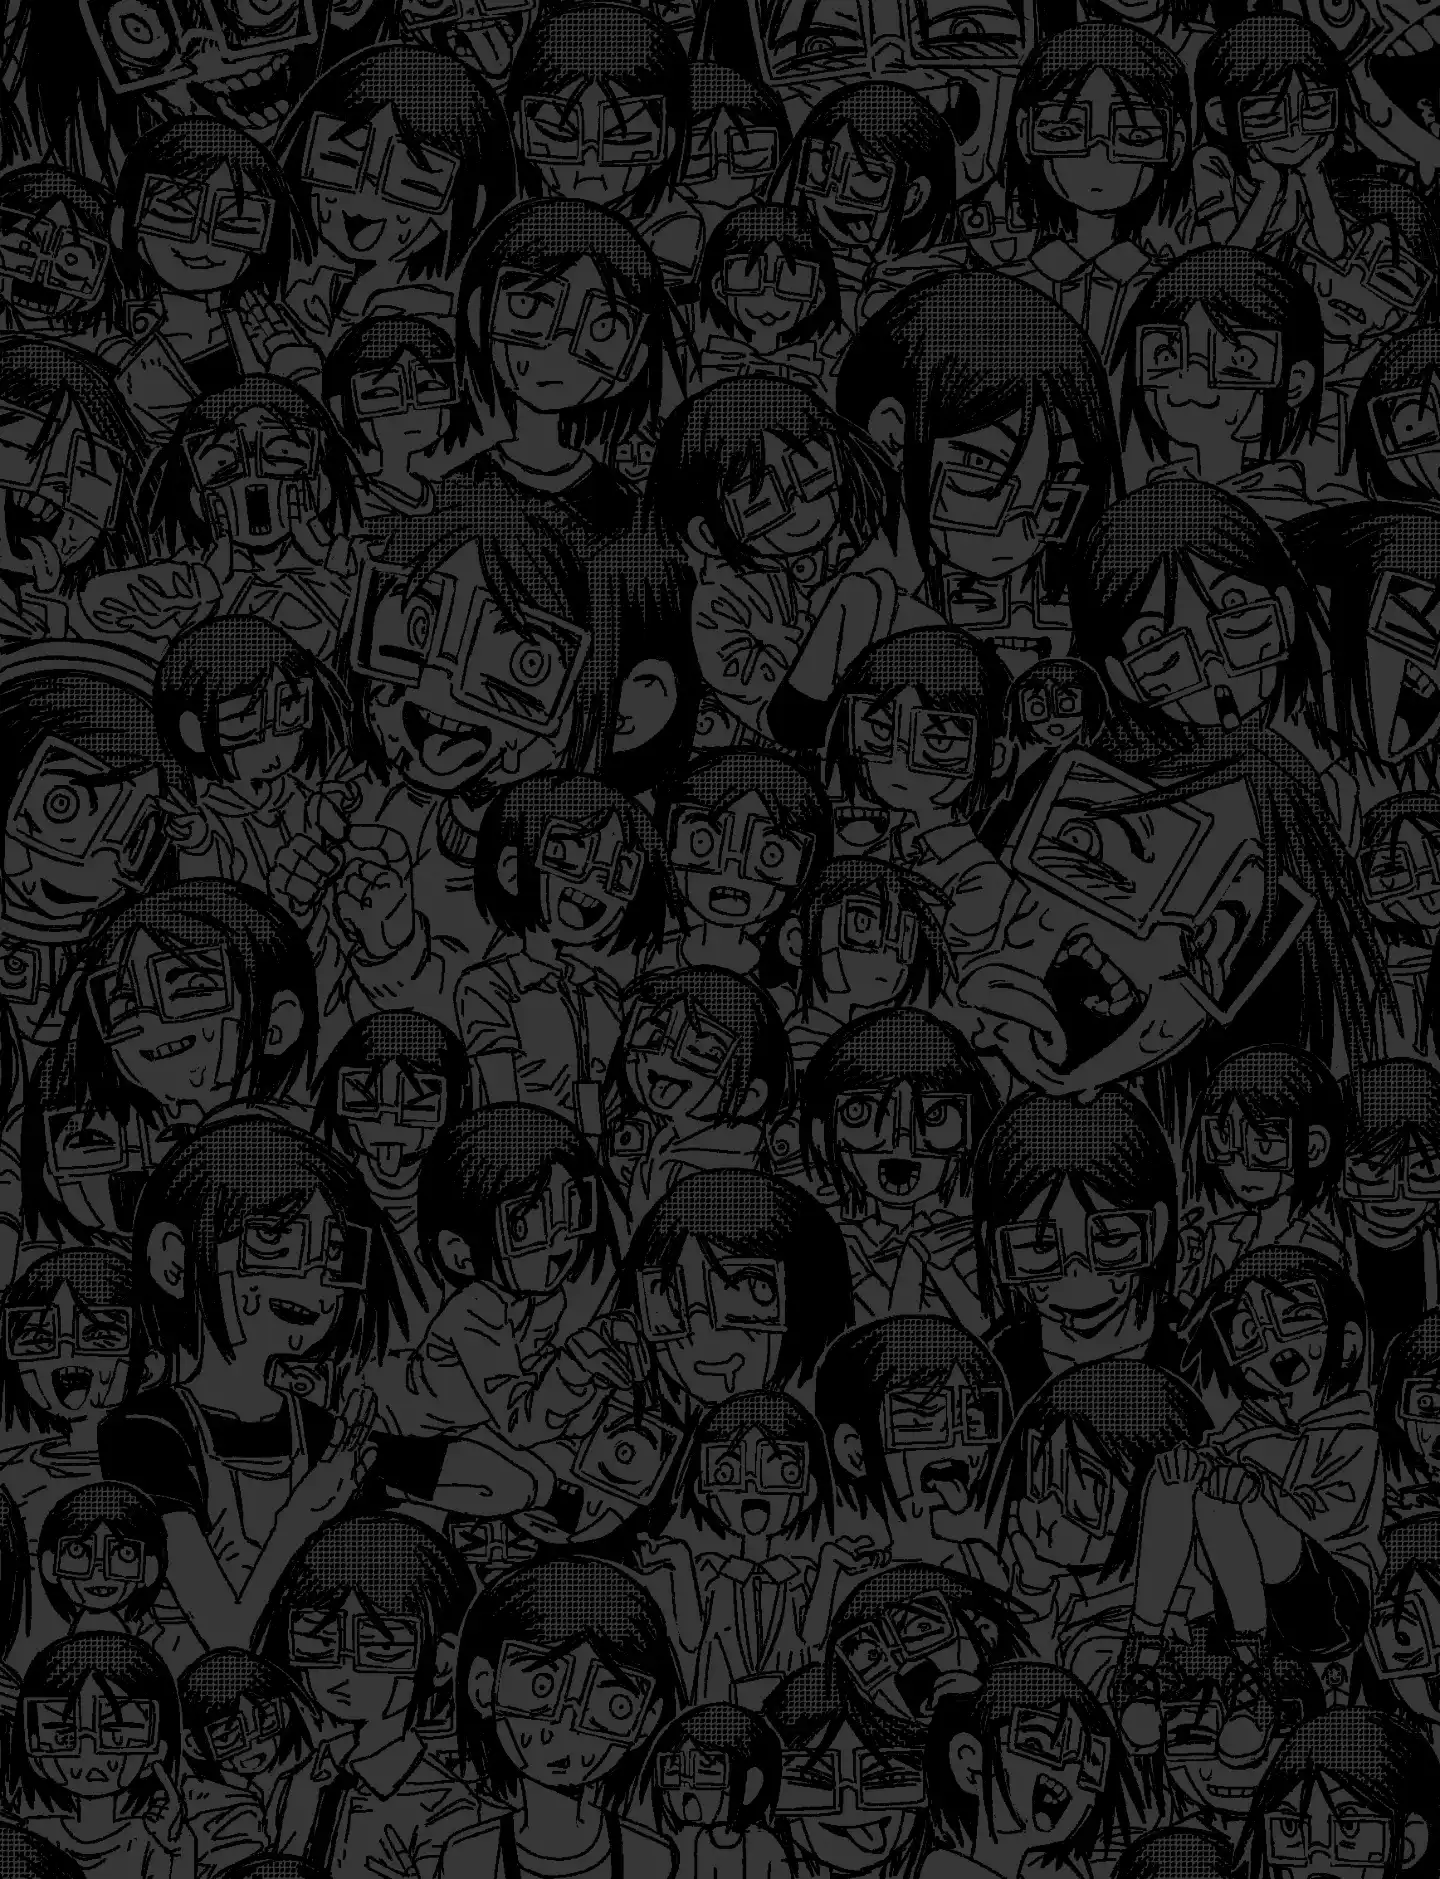
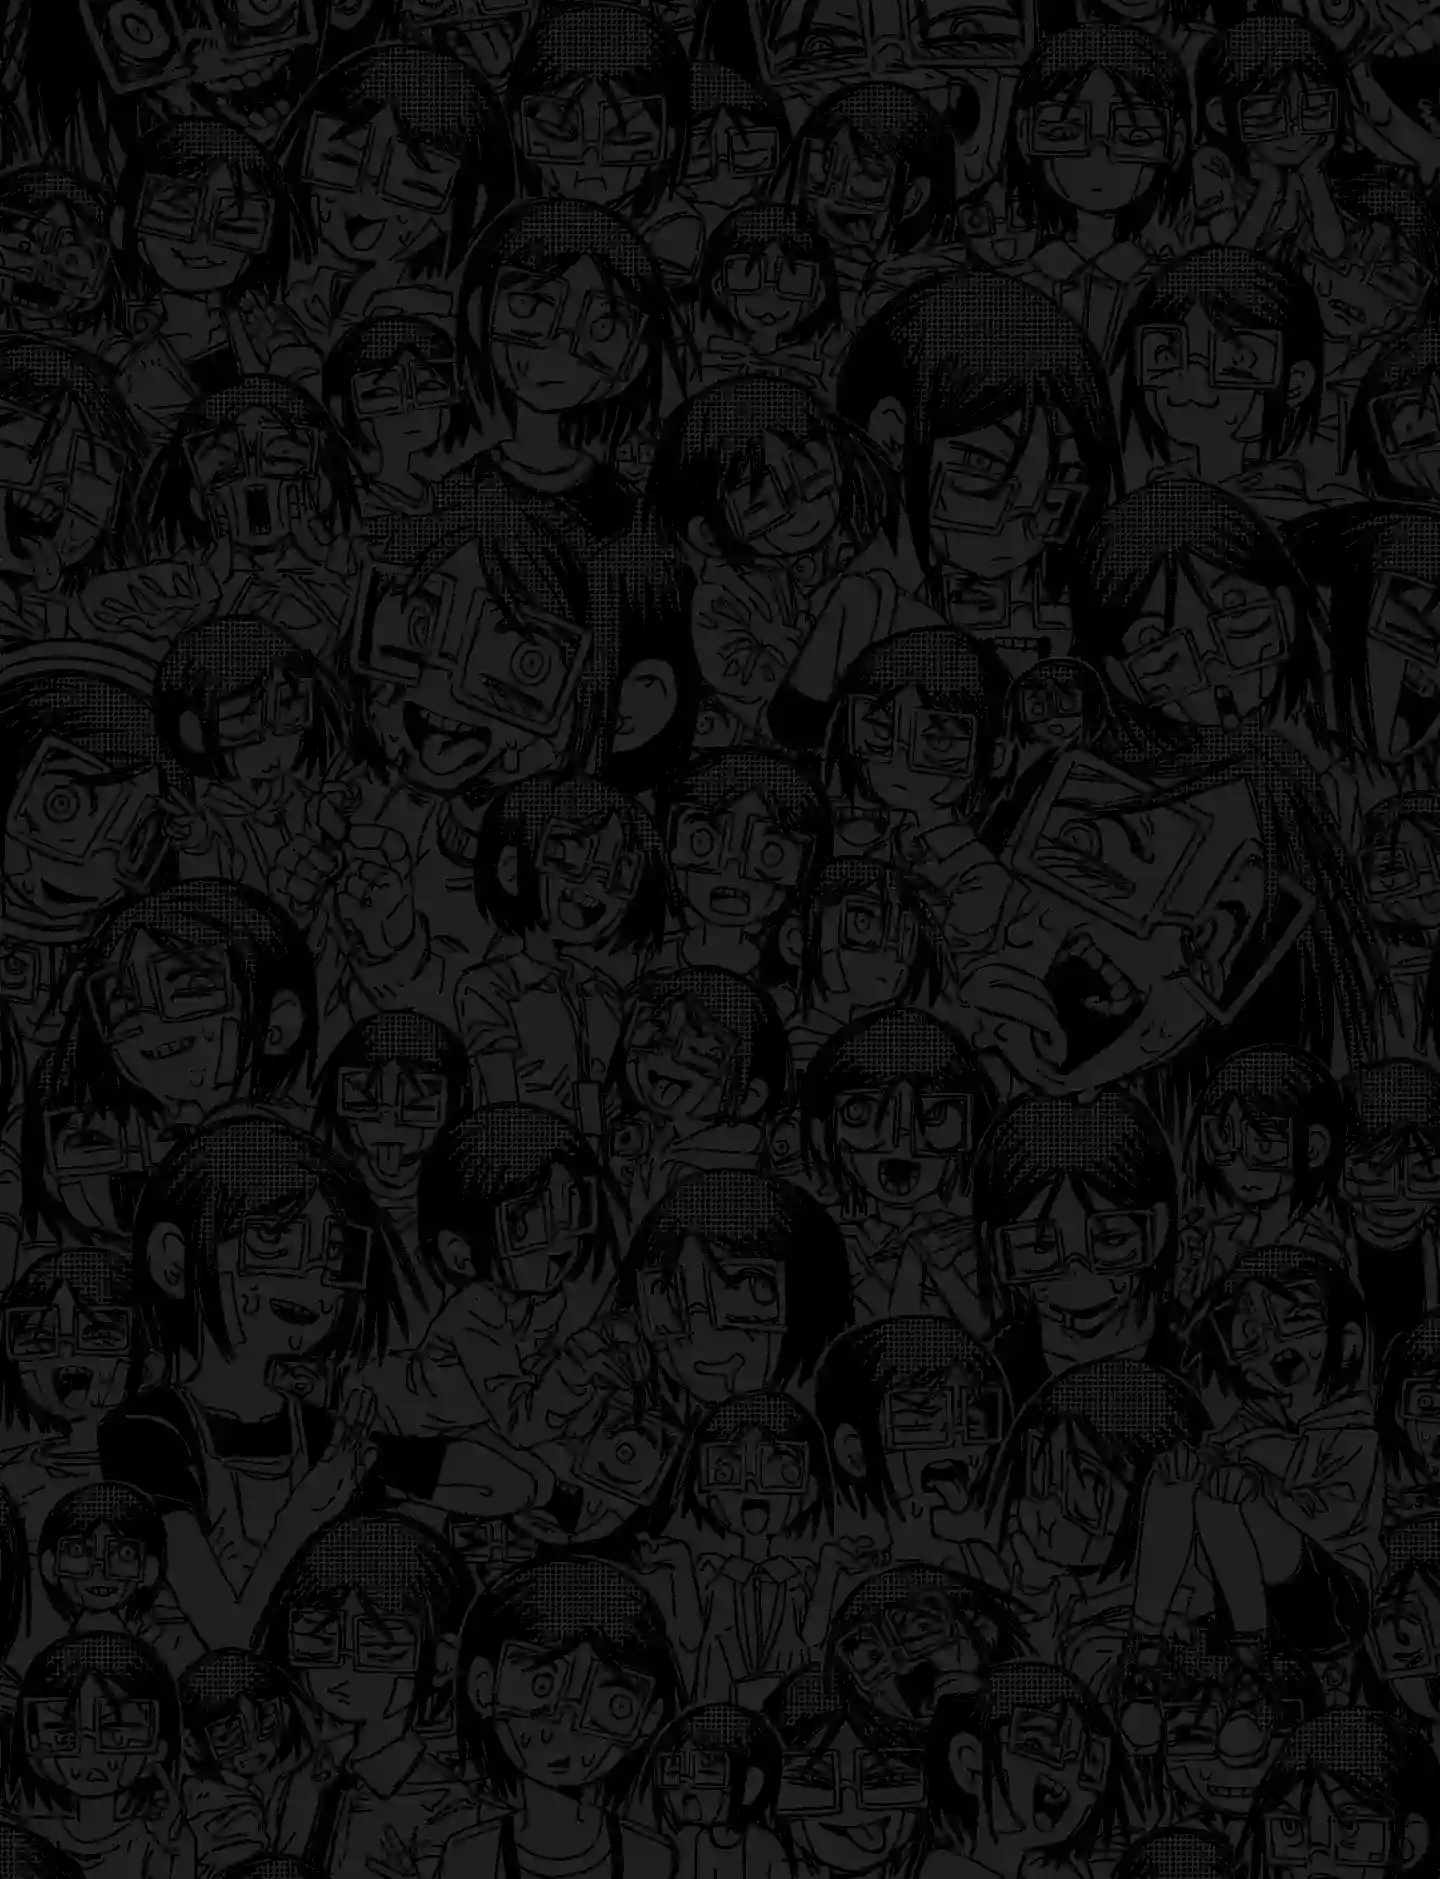
Move background images to media directory and update theme configuration
Key features implemented:
- Move bg-light.webp and bg-dark.webp to /media/ directory
- Update js/ui.js to reference new background image paths in /media/
- Compress background images to approximately 100kB total file size
- Maintain visual quality while optimizing image assets
- Update CSS background properties to use new compressed images
- Preserve existing theme functionality and color schemes

The changes relocate the background images to a dedicated media folder while maintaining all theme features and reducing overall file size.

Changed region(s): [[0.0, 0.0, 1.0, 1.0]]

diff --git a/js/ui.js b/js/ui.js
@@ -302,7 +302,7 @@
             root.style.setProperty('--border-color', 'rgba(0, 0, 0, 0.1)');
             root.style.setProperty('--blur-overlay-brightness', '1.0');
             root.style.setProperty('--dark-overlay-color', 'rgba(0, 0, 0, 0.0)');
-            document.body.style.background = 'linear-gradient(135deg, rgba(246, 245, 244, 0.6) 0%, rgba(255, 255, 255, 0.6) 100%), url("bg-light.webp")';
+            document.body.style.background = 'linear-gradient(135deg, rgba(246, 245, 244, 0.6) 0%, rgba(255, 255, 255, 0.6) 100%), url("/media/bg-light.webp")';
             document.body.style.backgroundSize = 'cover';
             document.body.style.backgroundPosition = 'center';
             document.body.style.backgroundAttachment = 'fixed';
@@ -318,7 +318,7 @@
             root.style.setProperty('--border-color', 'rgba(255, 255, 255, 0.12)');
             root.style.setProperty('--blur-overlay-brightness', '0.6');
             root.style.setProperty('--dark-overlay-color', 'rgba(0, 0, 0, 0.4)');
-            document.body.style.background = 'linear-gradient(135deg, rgba(26, 26, 26, 0.6) 0%, rgba(13, 13, 13, 0.6) 100%), url("bg-dark.webp")';
+            document.body.style.background = 'linear-gradient(135deg, rgba(26, 26, 26, 0.6) 0%, rgba(13, 13, 13, 0.6) 100%), url("/media/bg-dark.webp")';
             document.body.style.backgroundSize = 'cover';
             document.body.style.backgroundPosition = 'center';
             document.body.style.backgroundAttachment = 'fixed';

diff --git a/style.css b/style.css
@@ -36,8 +36,8 @@
     --glass-radius: 16px;
     
     /* Background Images - Local files */
-    --bg-image-dark: url('bg-dark.webp');
-    --bg-image-light: url('bg-light.webp');
+    --bg-image-dark: url('/media/bg-dark.webp');
+    --bg-image-light: url('/media/bg-light.webp');
 }
 
 [data-theme="dark"] {
@@ -58,8 +58,8 @@
     --glass-brightness: 0.92;
     
     /* Background Images - Local files */
-    --bg-image-dark: url('bg-dark.webp');
-    --bg-image-light: url('bg-light.webp');
+    --bg-image-dark: url('/media/bg-dark.webp');
+    --bg-image-light: url('/media/bg-light.webp');
 }
 
 [data-theme="light"] {
